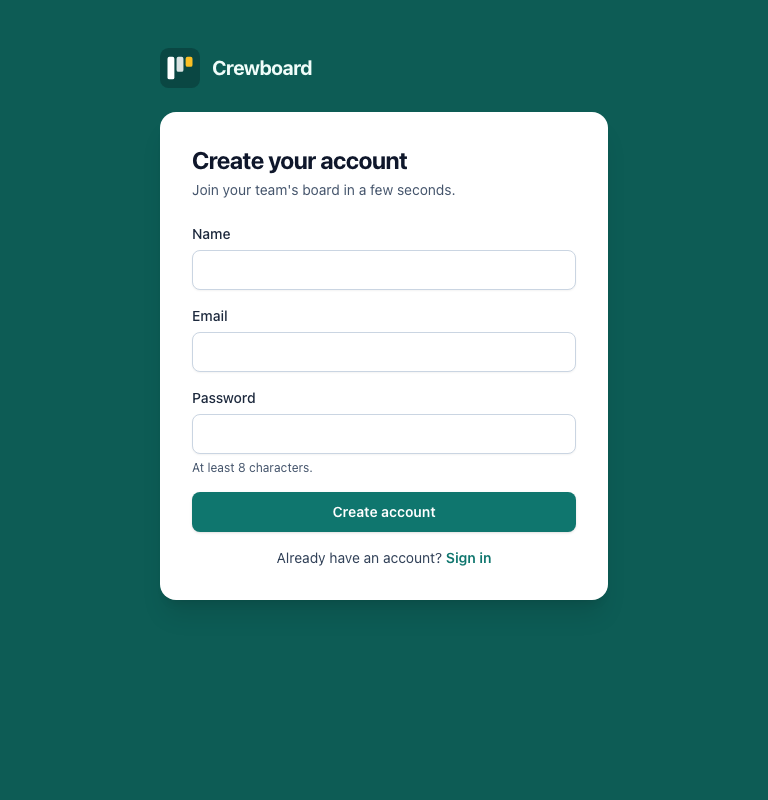
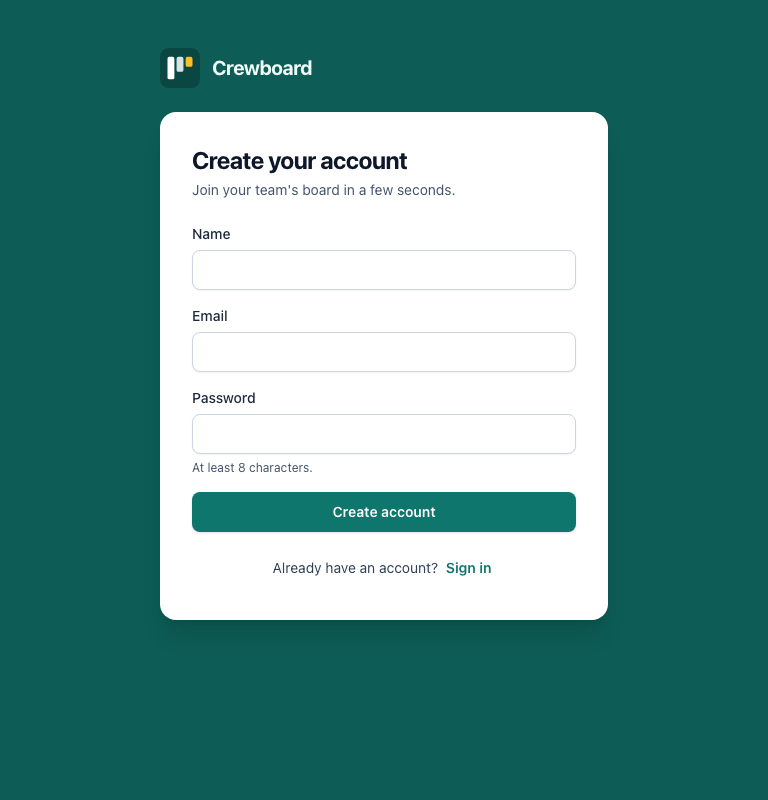
fix(a11y): 44px touch targets, scrollable layout at large text sizes, one-press keyboard column moves
Fixes the failures from the independent acceptance review (round 0) and adds
regression tests for each.

Changed region(s): [[0.1875, 0.75, 0.8125, 0.7812], [0.3438, 0.6875, 0.6562, 0.7188]]

diff --git a/src/components/board/BoardColumns.tsx b/src/components/board/BoardColumns.tsx
@@ -16,6 +16,7 @@ import type {
   UniqueIdentifier,
 } from '@dnd-kit/core';
 import { arrayMove, sortableKeyboardCoordinates } from '@dnd-kit/sortable';
+import type { KeyboardCoordinateGetter } from '@dnd-kit/core';
 import { useMemo, useState } from 'react';
 import { TASK_STATUSES } from '../../api/types';
 import type { Task, TaskStatus, User } from '../../api/types';
@@ -54,6 +55,38 @@ function columnOf(id: UniqueIdentifier, cols: Columns): TaskStatus | undefined {
   return TASK_STATUSES.find((st) => cols[st].includes(s));
 }
 
+/**
+ * Left/Right jump straight to the neighbouring column (dnd-kit's default
+ * getter can first land on a nearby card in the same column); Up/Down use
+ * the standard sortable behaviour.
+ */
+const boardKeyboardCoordinates: KeyboardCoordinateGetter = (event, args) => {
+  if (event.code !== 'ArrowLeft' && event.code !== 'ArrowRight') {
+    return sortableKeyboardCoordinates(event, args);
+  }
+  const { droppableRects, collisionRect } = args.context;
+  if (!collisionRect) return undefined;
+  const columns = TASK_STATUSES.map((s) => droppableRects.get(`column:${s}`)).filter(
+    (r): r is NonNullable<typeof r> => !!r,
+  );
+  const centerX = collisionRect.left + collisionRect.width / 2;
+  let current = columns.findIndex((r) => centerX >= r.left && centerX <= r.left + r.width);
+  if (current < 0) {
+    current = columns.reduce(
+      (best, r, i) =>
+        Math.abs(r.left + r.width / 2 - centerX) <
+        Math.abs((columns[best]?.left ?? 0) + (columns[best]?.width ?? 0) / 2 - centerX)
+          ? i
+          : best,
+      0,
+    );
+  }
+  const target = columns[current + (event.code === 'ArrowRight' ? 1 : -1)];
+  if (!target) return undefined;
+  event.preventDefault();
+  return { x: target.left + (target.width - collisionRect.width) / 2, y: target.top + 4 };
+};
+
 export function BoardColumns({
   tasks,
   visible,
@@ -79,28 +112,40 @@ export function BoardColumns({
     // A short press-and-hold starts a drag on touch, so swiping still scrolls.
     useSensor(TouchSensor, { activationConstraint: { delay: 220, tolerance: 8 } }),
     useSensor(KeyboardSensor, {
-      coordinateGetter: sortableKeyboardCoordinates,
+      coordinateGetter: boardKeyboardCoordinates,
       keyboardCodes: { start: ['Space'], cancel: ['Escape'], end: ['Space', 'Enter'] },
     }),
   );
 
   const titleOf = (id: UniqueIdentifier) => tasksById.get(String(id))?.title ?? 'card';
-  const describe = (overId: UniqueIdentifier | undefined, c: Columns) => {
+  const describe = (
+    activeId: UniqueIdentifier,
+    overId: UniqueIdentifier | undefined,
+    c: Columns,
+  ) => {
     if (overId === undefined) return 'not over a column';
     const col = columnOf(overId, c);
     if (!col) return 'not over a column';
-    const s = String(overId);
-    const idx = s.startsWith('column:') ? c[col].length : c[col].indexOf(s);
-    return `${COLUMN_TITLES[col]}, position ${Math.max(idx, 0) + 1} of ${Math.max(c[col].length, 1)}`;
+    const active = String(activeId);
+    const over = String(overId);
+    const list = c[col];
+    const inList = list.includes(active);
+    const total = inList ? list.length : list.length + 1;
+    let index: number;
+    if (over.startsWith('column:')) index = inList ? list.indexOf(active) : total - 1;
+    else if (over === active) index = list.indexOf(active);
+    else index = inList ? list.indexOf(over) : Math.max(list.indexOf(over), 0);
+    return `${COLUMN_TITLES[col]}, position ${Math.min(index + 1, total)} of ${total}`;
   };
 
   const announcements: Announcements = {
     onDragStart: ({ active }) =>
       `Picked up ${titleOf(active.id)}. Use arrow keys to move, Space to drop, Escape to cancel.`,
-    onDragOver: ({ active, over }) => `${titleOf(active.id)} is over ${describe(over?.id, cols)}.`,
+    onDragOver: ({ active, over }) =>
+      `${titleOf(active.id)} is over ${describe(active.id, over?.id, cols)}.`,
     onDragEnd: ({ active, over }) =>
       over
-        ? `Dropped ${titleOf(active.id)} in ${describe(over.id, cols)}.`
+        ? `Dropped ${titleOf(active.id)} in ${describe(active.id, over.id, cols)}.`
         : `${titleOf(active.id)} was dropped back.`,
     onDragCancel: ({ active }) =>
       `Moving ${titleOf(active.id)} was cancelled. It is back where it started.`,
@@ -178,7 +223,7 @@ export function BoardColumns({
         Press Enter to open. Press Space to pick up and move with the arrow keys.
       </p>
       <div
-        className="relative flex min-h-0 flex-1 snap-x snap-mandatory items-start gap-3 overflow-x-auto overscroll-x-contain px-3 pt-3 pb-4 sm:snap-none sm:px-5"
+        className="relative flex flex-1 snap-x lg:min-h-0 snap-mandatory items-start gap-3 overflow-x-auto overscroll-x-contain px-3 pt-3 pb-4 sm:snap-none sm:px-5"
         data-testid="column-strip"
       >
         {TASK_STATUSES.map((status) => (

diff --git a/src/components/board/AppHeader.tsx b/src/components/board/AppHeader.tsx
@@ -12,10 +12,10 @@ export function AppHeader() {
 
   return (
     <header className="shrink-0 border-b border-white/10 bg-board-deep text-white">
-      <div className="flex flex-wrap items-center gap-x-3 gap-y-2 px-3 py-2 sm:px-5">
+      <div className="flex flex-wrap items-center gap-x-2 gap-y-1 px-2 py-1.5 sm:gap-x-3 sm:px-5 sm:py-2">
         <Link
           to="/board"
-          className="focus-ring-light flex shrink-0 items-center gap-2 rounded-md"
+          className="focus-ring-light flex min-h-touch min-w-touch shrink-0 items-center justify-center gap-2 rounded-md"
           aria-label="Crewboard home"
         >
           <LogoMark className="size-8" />
@@ -25,13 +25,13 @@ export function AppHeader() {
         <div className="flex min-w-0 flex-1 basis-40 items-center">
           <BoardName />
         </div>
-        <nav aria-label="Account" className="flex flex-wrap items-center gap-1 sm:gap-2">
+        <nav aria-label="Account" className="ml-auto flex flex-wrap items-center gap-1 sm:gap-2">
           {onBoard && (
             <button
               type="button"
               aria-pressed={mine}
               onClick={() => setMine(!mine)}
-              className={`focus-ring-light inline-flex min-h-touch items-center gap-2 rounded-lg px-3 text-sm font-semibold transition-colors ${
+              className={`focus-ring-light inline-flex min-h-touch items-center gap-2 rounded-lg px-2 text-sm font-semibold transition-colors sm:px-3 ${
                 mine
                   ? 'bg-accent text-slate-900 hover:bg-amber-300'
                   : 'bg-white/10 text-white hover:bg-white/20'
@@ -46,7 +46,7 @@ export function AppHeader() {
           <NavLink
             to="/settings"
             className={({ isActive }) =>
-              `focus-ring-light inline-flex min-h-touch items-center gap-2 rounded-lg px-3 text-sm font-semibold hover:bg-white/15 ${isActive ? 'bg-white/15' : ''}`
+              `focus-ring-light inline-flex min-h-touch min-w-touch items-center justify-center gap-2 rounded-lg px-2 text-sm font-semibold hover:bg-white/15 sm:px-3 ${isActive ? 'bg-white/15' : ''}`
             }
           >
             <svg aria-hidden="true" viewBox="0 0 20 20" className="size-4" fill="currentColor">
@@ -59,7 +59,7 @@ export function AppHeader() {
             <span className="max-sm:sr-only">Settings</span>
           </NavLink>
           {user && (
-            <span className="flex items-center gap-2 pl-1">
+            <span className="hidden items-center gap-2 pl-1 sm:flex">
               <Avatar name={user.name} color={user.avatarColor} labelled={false} />
               <span className="hidden max-w-40 truncate text-sm lg:inline">{user.name}</span>
               <span className="sr-only">Signed in as {user.name}</span>
@@ -68,9 +68,17 @@ export function AppHeader() {
           <button
             type="button"
             onClick={logout}
-            className="focus-ring-light inline-flex min-h-touch items-center rounded-lg px-3 text-sm font-semibold hover:bg-white/15"
+            className="focus-ring-light inline-flex min-h-touch min-w-touch items-center justify-center gap-2 rounded-lg px-2 text-sm font-semibold hover:bg-white/15 sm:px-3"
           >
-            Log out
+            <svg
+              aria-hidden="true"
+              viewBox="0 0 20 20"
+              className="size-4 sm:hidden"
+              fill="currentColor"
+            >
+              <path d="M3 4.5A1.5 1.5 0 0 1 4.5 3h6A1.5 1.5 0 0 1 12 4.5V7h-1.5V4.5h-6v11h6V13H12v2.5a1.5 1.5 0 0 1-1.5 1.5h-6A1.5 1.5 0 0 1 3 15.5v-11Zm11.2 2.2 3.3 3.3-3.3 3.3-1.06-1.06 1.49-1.49H7.5v-1.5h7.13l-1.49-1.49 1.06-1.06Z" />
+            </svg>
+            <span className="max-sm:sr-only">Log out</span>
           </button>
         </nav>
       </div>

diff --git a/e2e/layout-regression.spec.ts b/e2e/layout-regression.spec.ts
@@ -1,0 +1,56 @@
+import { expect, test, demoLogin } from './fixtures';
+
+// Regression for review round 0: at 320 px with a 200% root font size the
+// header used most of the screen and the board could not be scrolled to.
+test('320 px at 200% text: the board is reachable by scrolling the page', async ({ page }) => {
+  await page.setViewportSize({ width: 320, height: 640 });
+  await page.addInitScript(() => {
+    document.addEventListener('DOMContentLoaded', () => {
+      const style = document.createElement('style');
+      style.textContent = 'html { font-size: 200% !important; }';
+      document.head.append(style);
+    });
+  });
+  await demoLogin(page);
+  const header = page.locator('header');
+  const headerBox = await header.boundingBox();
+  // Before the fix the header was 497 px tall and the page could not scroll;
+  // at double text size it cannot get much under 400 px, so the real check is
+  // that the page now scrolls to the board.
+  expect(headerBox!.height).toBeLessThan(440);
+  const addCard = page.getByRole('button', { name: 'Add a card to To Do' });
+  await addCard.scrollIntoViewIfNeeded();
+  await expect(addCard).toBeInViewport();
+  expect(await page.evaluate(() => document.documentElement.scrollWidth <= window.innerWidth)).toBe(
+    true,
+  );
+});
+
+test('touch targets in the header and auth links are at least 44 px on touch devices', async ({
+  browser,
+}) => {
+  const context = await browser.newContext({
+    hasTouch: true,
+    isMobile: true,
+    viewport: { width: 375, height: 740 },
+  });
+  const page = await context.newPage();
+  await page.goto('./#/login');
+  for (const name of ['Create an account']) {
+    const box = await page.getByRole('link', { name }).boundingBox();
+    expect(box!.height).toBeGreaterThanOrEqual(44);
+  }
+  await page.getByRole('button', { name: /Sign in as Ana Silva/ }).click();
+  await expect(page.getByTestId('task-card').first()).toBeVisible();
+  for (const loc of [
+    page.getByRole('link', { name: 'Crewboard home' }),
+    page.getByRole('link', { name: 'Settings' }),
+    page.getByRole('button', { name: 'Log out' }),
+    page.getByRole('button', { name: 'My tasks' }),
+  ]) {
+    const box = await loc.boundingBox();
+    expect(box!.height).toBeGreaterThanOrEqual(44);
+    expect(box!.width).toBeGreaterThanOrEqual(44);
+  }
+  await context.close();
+});

diff --git a/e2e/dnd.spec.ts b/e2e/dnd.spec.ts
@@ -88,12 +88,15 @@ test.describe('drag and drop', () => {
     await card.focus();
     await page.keyboard.press('Space');
     await expect(liveRegion(page)).toContainText('is over');
-    // The first ArrowRight can land on a neighbouring card before crossing columns.
-    for (let i = 0; i < 3; i++) {
-      if (((await liveRegion(page).textContent()) ?? '').includes('is over In Progress')) break;
-      await pressDuringDrag(page, 'ArrowRight');
-    }
+    // Regression: a single ArrowRight must reach the next column, and the
+    // announced position must never exceed the announced total.
+    await pressDuringDrag(page, 'ArrowRight');
     await expect(liveRegion(page)).toContainText('is over In Progress');
+    const text = (await liveRegion(page).textContent()) ?? '';
+    const m = /position (\d+) of (\d+)/.exec(text);
+    expect(m, text).not.toBeNull();
+    expect(Number(m![1])).toBeLessThanOrEqual(Number(m![2]));
+    expect(Number(m![2])).toBe(5);
     await page.keyboard.press('Space');
 
     await expect(column(page, 'in_progress').locator(`[data-task-id="${moving}"]`)).toBeVisible();

diff --git a/src/components/board/Column.tsx b/src/components/board/Column.tsx
@@ -26,7 +26,7 @@ export function Column({ status, tasks, usersById, filtered, onOpen, onAdd }: Co
     <section
       aria-labelledby={headingId}
       data-testid={`column-${status}`}
-      className="flex max-h-full w-[min(var(--spacing-column),calc(100vw-2.5rem))] shrink-0 snap-center flex-col rounded-xl bg-panel shadow-sm sm:snap-start"
+      className="flex w-[min(var(--spacing-column),calc(100vw-2.5rem))] shrink-0 snap-center flex-col rounded-xl lg:max-h-full bg-panel shadow-sm sm:snap-start"
     >
       <h2
         id={headingId}
@@ -49,7 +49,7 @@ export function Column({ status, tasks, usersById, filtered, onOpen, onAdd }: Co
         <ul
           ref={setNodeRef}
           aria-labelledby={headingId}
-          className={`flex min-h-20 flex-1 flex-col gap-2 overflow-y-auto overscroll-contain px-2 pb-2 transition-colors ${
+          className={`flex min-h-20 flex-1 flex-col gap-2 lg:overflow-y-auto lg:overscroll-contain px-2 pb-2 transition-colors ${
             isOver ? 'bg-teal-900/5' : ''
           }`}
         >

diff --git a/src/components/board/BoardName.tsx b/src/components/board/BoardName.tsx
@@ -81,7 +81,7 @@ export function BoardName() {
           setDraft(board.name);
           setEditing(true);
         }}
-        className="focus-ring-light group flex min-h-touch max-w-full items-center gap-2 rounded-md px-2 text-left text-lg font-bold text-white hover:bg-white/15"
+        className="focus-ring-light group flex min-h-touch max-w-full items-center gap-2 rounded-md px-2 text-left text-base font-bold text-white hover:bg-white/15 sm:text-lg"
         title="Rename board"
       >
         <span className="line-clamp-2 [overflow-wrap:anywhere]">{board.name}</span>

diff --git a/src/pages/SignupPage.tsx b/src/pages/SignupPage.tsx
@@ -108,7 +108,7 @@ export function SignupPage() {
         Already have an account?{' '}
         <Link
           to="/login"
-          className="focus-ring rounded font-semibold text-brand underline-offset-2 hover:underline"
+          className="focus-ring inline-flex min-h-touch items-center rounded px-1 font-semibold text-brand underline-offset-2 hover:underline"
         >
           Sign in
         </Link>

diff --git a/src/pages/LoginPage.tsx b/src/pages/LoginPage.tsx
@@ -84,7 +84,7 @@ export function LoginPage() {
         New here?{' '}
         <Link
           to="/signup"
-          className="focus-ring rounded font-semibold text-brand underline-offset-2 hover:underline"
+          className="focus-ring inline-flex min-h-touch items-center rounded px-1 font-semibold text-brand underline-offset-2 hover:underline"
         >
           Create an account
         </Link>

diff --git a/src/app/App.tsx b/src/app/App.tsx
@@ -29,7 +29,7 @@ function RequireAuth() {
   }
   return (
     <BoardDataProvider>
-      <div className="flex h-dvh flex-col bg-board">
+      <div className="flex min-h-dvh flex-col bg-board lg:h-dvh">
         <AppHeader />
         <Outlet />
       </div>

diff --git a/docs/REVIEW.md b/docs/REVIEW.md
@@ -1,0 +1,91 @@
+# Review log
+
+## Round 0: independent acceptance review (local production build)
+
+- **Date:** 2026-11-15
+- **Reviewer:** independent agent. Inputs were `SPEC.md` and the running app only. No source, tests or git history were read.
+- **Environment:** production build served at `http://localhost:4180/team-task-board/`. Playwright 1.x with headless Chromium on macOS. Every scenario used a fresh browser context, so localStorage started empty. Touch was checked with the Pixel 7 and iPhone 13 device profiles plus raw CDP touch events. Console errors and warnings were captured on every page (none appeared in any run).
+- **Method notes:** `tsc` and ESLint were run only for their exit codes. Evidence screenshots and scripts are in the session scratchpad `review/` folder.
+
+| # | Acceptance item (short) | Result | Evidence |
+|---|---|---|---|
+| 1 | Sign up: name, email, password; validation; duplicate email rejected | PASS | Empty submit shows "Enter your name." / "Enter your email address." / "Enter a password." `notanemail` gives "Enter a valid email address, like name@example.com." A 3-character password gives "Use at least 8 characters." `ana@crewboard.demo` and `ANA@Crewboard.demo` both give "An account with this email already exists. Sign in instead?" A valid sign-up lands on `#/board`. |
+| 2 | Log in; wrong credentials show one generic error | PASS | Wrong password for a real email and an unknown email both show the identical "Incorrect email or password." |
+| 3 | Session survives reload; log out clears it | PASS | Reload on `#/board` stays signed in. Log out goes to `#/login`, the token is removed, and a reload plus a visit to `#/board` still end on login. A malformed token (`aaa.bbb.ccc`) returns to login with "Your session has ended. Please sign in again." A genuinely expired token could not be forged without the signing secret, so I did not verify it directly. |
+| 4 | Board routes redirect to login when signed out | PASS | `#/board`, `#/settings` and an unknown route all redirect to `#/login` when signed out. |
+| 5 | Login page lists seeded demo accounts, one-click sign-in | PASS | Five accounts (Ana, Ben, Chloé, Dev, Emma) with role and email, and the shared password is stated. One click signs in; each card has an aria-label such as "Sign in as Ana Silva, Project lead". |
+| 6 | Three columns To Do / In Progress / Done, each with a task count | PASS | Headers show "To Do 5", "In Progress 4", "Done 3". Counts update after create, delete, move and filter. |
+| 7 | Board name in header and renamable | PASS | Click the name, edit inline, Enter. The header updates and survives reload. A blank name is rejected with "The board name cannot be empty." Escape cancels. The name can also be changed in Settings. |
+| 8 | Empty columns show a helpful empty state | PASS | An empty Done column shows "Nothing finished yet / Finished cards land here." A filtered empty column shows "None of your tasks here / Turn off "My tasks" to see everyone's cards." |
+| 9 | Loading and error states for the initial fetch | PASS | A "Loading board…" state is visible after reload. To force a fetch error I made `localStorage.getItem` throw partway through the load. The board area then showed "We couldn't load the board / Something went wrong. Please try again." with a "Try again" button. I did not click that button. A corrupted store returns to login with a message instead of crashing. |
+| 10 | Create a task from any column with title (required), description, assignee | PASS | "Add a card" in each column opens "New task in <column>" with that column's status preselected. An empty title shows "Give the task a title." Title, multi-paragraph description and assignee were saved, and the card appears in the right column with the right count. |
+| 11 | Open a task to view and edit title, description, assignee, status | PASS | Clicking or pressing Enter on a card opens "Edit task". All four fields were changed and saved. The card moved column, and values persisted after reload. |
+| 12 | Delete a task with a confirmation step | PASS | Delete opens "Delete this task?" naming the task, with Cancel focused. Escape closes only the confirm. "Delete task" removes the card, the count drops, and it stays gone after reload. |
+| 13 | Assignee from registered users or unassigned; cards show initials avatar | PASS | The picker lists Unassigned plus all users with "(you)" on the current user. Cards show initials avatars with an accessible name, and unassigned cards show the text "Unassigned". |
+| 14 | New accounts appear in the assignee picker | PASS | A newly registered "Test User" appeared in the picker as "Test User (you)". |
+| 15 | Drag to another column; status saved via API; survives reload | PASS | Mouse (down, stepped move, up) moved a card To Do to In Progress. It stayed after a reload 1.2 s later. A drop onto the empty area below the cards, and onto an empty column (filtered view), also persisted. |
+| 16 | Reorder within a column; order survives reload | PASS | Mouse reorder in Done persisted after reload. A keyboard reorder persisted too. |
+| 17 | Optimistic update; rollback with visible message on API failure | PASS | With `?failMoves=1`, the card sat in the target column for about 300 ms, then returned to its origin. A red toast read "Couldn't move "Create the component library". It has been put back. (Simulated server failure.)" and auto-dismissed. The original order was still there after reload. The same happened with the keyboard. See defect 3 for a stale screen-reader announcement. |
+| 18 | Drag works with mouse, touch and keyboard | PARTIAL | Mouse: PASS. Touch (CDP touch events on a Pixel 7 profile): a quick swipe does not drag, while press-and-hold (600 ms) then move reorders within a column and moves across columns, and both persist after reload. This is synthetic touch only; no real device was available. Keyboard: Space picks up, arrows move, Space drops and Escape cancels, all with live announcements, and a cross-column move persisted. However, the first arrow press in a new direction does not move the card to the next column (it only changes position in the current one), and the announcements can be wrong. See defect 3. |
+| 19 | "My tasks" toggle shows only my tasks; counts reflect the filter | PASS | As Ana, counts became To Do 1 / In Progress 0 / Done 1 ("2 of 12"). As Emma they were 0 / 1 / 1. The toggle has `aria-pressed`. |
+| 20 | Filter state visible and easy to clear | PASS | The button is highlighted. A banner reads "Showing only tasks assigned to you (2 of 12)." with a "Show all tasks" button. Clicking either the banner button or the toggle restores 5/4/3. The filter persists across reload. |
+| 21 | Edit own display name | PASS | In Settings the name saves with "Display name updated." The header and avatar initials update. A blank name shows "Display name cannot be empty." |
+| 22 | Rename the board | PASS | The Settings "Board name" field saves, and the header updates. |
+| 23 | "Reset demo data" restores seed after confirmation | PASS | A confirm dialog appears, and Cancel changes nothing. Confirming restores board name "Website relaunch", the original names, and the original tasks, and a "Demo data re…" status message appears. |
+| 24 | Five seeded users with obvious demo credentials | PASS | Five users, password `demo1234` shown on the login page. |
+| 25 | One project, ~10-12 realistic tasks across columns, several assignees, 1-2 unassigned | PASS | "Website relaunch" has 12 tasks (5/4/3) across 5 assignees. Two are unassigned ("Plan the launch announcement", "Run an accessibility review"). The tasks are realistic. |
+| 26 | Seed on first visit only; user changes never overwritten unless reset | PASS | Edits, deletes and moves survived reloads and a second tab in the same context. The seed returned only after Reset. |
+| 27 | Responsive 320 px to large desktop, portrait and landscape; columns scroll with snap; dialogs full-screen on narrow | PASS | I checked 1920x1080, 1280x800, 1024x768, 768x1024, 1024x600, 412x839, 390x844, 844x390, 667x375, 360x640, 320x568, 568x320 and 320x256 on board, settings and task dialog. `documentElement.scrollWidth` never exceeded `innerWidth`. On phones the column strip scrolls horizontally with `scroll-snap-type: x mandatory`. At 568 px width and below the dialog fills the viewport; on wider landscape it is a centred card whose overlay scrolls vertically, and Save stays reachable. |
+| 28 | Touch targets at least 44 px on touch devices | FAIL | iPhone 13 and Pixel 7 profiles, every screen audited. Fails: the header logo link is 32x32; the icon-only "Settings" link is 40x44; the inline links "Create an account" (login) and "Sign in" (signup) are about 17 px tall. All buttons, inputs, selects, cards and dialog controls are at least 44 px. |
+| 29 | Scales with font size: rem-based; usable at 200% default font and 400% zoom | PARTIAL | With `html{font-size:200%}` every text node doubled (11, 14 and 16 px base became 22, 28 and 32 px) and nothing overflowed horizontally at 1280, 768, 412, 320x568 or 320x256. At 320x256 with the normal font (400% zoom approximation) the header is about 115 px and the board is usable. At 412 wide and above, and at 768, 200% is usable. Problem: at 320x568 with 200% font the non-sticky header is 497 px tall, the page does not scroll, and only about 70 px is left for the board, which makes the board practically unusable (defect 2). I could not inspect CSS units directly, so the "never fixed px" claim was verified only through behaviour. |
+| 30 | Long titles, unbroken words, long names, multi-paragraph descriptions handled | PASS | Tested a 140-character title, a 204-character unbroken word as title, an 8-paragraph description with an unbroken word, a 70-character display name and a long board name. Card titles wrap or clamp with an ellipsis, the header name and user name truncate with an ellipsis, and the dialog scrolls with a vertically resizable textarea. There was no horizontal overflow or broken layout at 320 px to 1920 px. |
+| 31 | Respects `prefers-reduced-motion` | PASS | With `reducedMotion: 'no-preference'`, the dialog runs `fade-in` 120 ms and `dialog-in` 160 ms, the drag overlay is tilted, and the drop animates 250 ms. With `reduce`, no animations run, durations are 1e-5 s, and the drag tilt is gone. |
+| 32 | Keyboard reachable, visible focus, labelled controls, dialogs trap focus and close on Escape | PASS | Tab order on login, board and dialogs is logical. Every focused control shows a 3 px solid outline (teal, amber, white or red depending on the surface). The Tab and Shift+Tab cycle stays inside the dialog (`aria-modal`, labelled). Escape closes task, create and confirm dialogs (confirm closes alone) and focus returns to the opener. A scan found no unlabelled inputs, selects, buttons or links on board or settings. Minor: initial dialog focus goes to the close button rather than the first field. |
+| 33 | No console errors or warnings in normal use | PASS | Across all scripts (auth, CRUD, drag with mouse/touch/keyboard, settings, reset, narrow viewports, reduced motion) no console errors, warnings or page errors were captured. The simulated move failure also logged none. |
+| 34 | Production build has no TypeScript or lint errors | PASS | `npm run typecheck` exits 0. `npm run lint` (`eslint . --max-warnings=0`) exits 0. I did not rebuild; the check was against the working tree. `prettier --check` is not part of the criterion but reports 4 files (see observations). |
+
+**Totals:** 34 rows: 31 PASS, 1 FAIL, 2 PARTIAL.
+
+### Section 4 design checks (objective)
+
+- **Name and identity:** "Crewboard", with its own three-bar logo (two white bars plus an amber bar, no square). There is no Trello name, wordmark or blue anywhere. The board colour is a dark teal.
+- **Layout:** full-height coloured board, three fixed-width neutral columns with header and count, white compact cards, an "Add a card" action at the foot of each column, and a centred dialog for task details. Light theme only.
+- **Typeface:** one sans family, consistent spacing, restrained shadows.
+- **Contrast:** I computed WCAG contrast ratios for every text element on login, signup (with errors), board, task dialog and settings. All meet AA. The lowest measured values were 4.75:1 for "Back to board" and "Unassigned" (12 px), 5.18:1 for avatar initials and 5.47:1 for the primary buttons.
+
+## Failures and defects
+
+1. **Touch targets below 44 px (FAIL for item 28).** Severity: minor.
+   Repro: use an iPhone 13 or Pixel 7 profile, open `#/board` and measure the header logo link (32x32) and the icon-only Settings link (40 px wide). Open `#/login` and `#/signup` and measure the inline "Create an account" and "Sign in" links (about 17 px tall).
+
+2. **Board almost unusable at 320 px wide with a 200% default font (PARTIAL for item 29).** Severity: major.
+   Repro: viewport 320x568, inject `html{font-size:200%}`, sign in. The header wraps into a non-sticky block of 497 px, the document does not scroll (`scrollHeight == innerHeight`), and the board gets about 70 px of height, so cards and "Add a card" cannot be reached comfortably. At 412 and 768 px wide it is fine. Suggested direction: collapse header controls (menu or smaller header at narrow widths and large text) or let the page scroll.
+
+3. **Keyboard drag glitches (PARTIAL for item 18).** Severity: minor.
+   Repro A: focus a card, Space, then ArrowRight once. The announcement is "over To Do, position 1 of 5" (still in the source column), so cross-column moves need two presses.
+   Repro B: sign in as Emma, turn on "My tasks", pick up "Write the new About page copy", press ArrowLeft. The announcements read "position 2 of 1", and the drop reads "Dropped ... in To Do, position 2 of 1". The result is correct, but the announced position is impossible.
+   Repro C: with `?failMoves=1`, after a failed move the live region still says "Dropped ... in In Progress, position 1 of 5." The rollback toast does carry the correction.
+
+## Other observations (not acceptance failures)
+
+- `document.title` is always "Crewboard" on every route.
+- The board page has two `h1` elements (logo or board name plus another); consider one per page.
+- Opening a task puts focus on the Close button rather than the Title field.
+- A blank board-name rename closes the inline editor and shows the error only as a live-region alert, so a sighted user may miss it. The alert text also lingers after Escape.
+- On a phone, "Settings" is icon-only (aria-label "Settings") and the avatar plus "Log out" sit on a second header row. It works but looks cramped at 320 px, and the long board name truncates with no tooltip.
+- Landscape phone (844x390): the dialog is a centred card taller than the viewport, so the overlay scrolls and the Save and Delete row is below the fold until you scroll. A full-height sheet would be easier.
+- Delete shows one toast per deletion and the toasts stack without a cap.
+- `prettier --check` flags 4 files, including `docs/metrics/usage.json` and `scripts/usage-report.mjs`. This is not covered by the spec criterion.
+- Not verified: real touch hardware (only synthetic CDP touch), genuine token expiry, and the "Try again" button on the load-error screen.
+- The "Try demo account" list and the password hint make the demo trivially usable, as intended.
+
+### Round 0: fixes (main session)
+
+| Finding | Fix | Regression test |
+|---|---|---|
+| FAIL: touch targets under 44 px (logo link 32 px, icon-only Settings 40 px wide, inline "Create an account" / "Sign in" links ~17 px tall). | Logo link, Settings and Log out get `min-h/min-w` of the touch size (44 px on coarse pointers); auth links are now 44 px tall inline-flex targets. | `e2e/layout-regression.spec.ts`: touch-target sizes on a touch device profile. |
+| PARTIAL (major): at 320 px with 200% text the header took 497 px and the page could not scroll, leaving ~70 px of board. | Below the `lg` breakpoint the app shell is no longer fixed to the viewport height: the page scrolls vertically and columns grow with their cards (the fixed-height board with per-column scrolling remains on large screens). The header is denser on phones (icon-only Settings and Log out with accessible names, avatar hidden, smaller board title). | `e2e/layout-regression.spec.ts`: board reachable by scrolling at 320 px / 200%, no horizontal overflow. |
+| PARTIAL (minor): keyboard ArrowRight sometimes needed two presses to change column; announcements could say "position 2 of 1". | Custom keyboard coordinate getter: Left/Right jump straight to the neighbouring column; Up/Down keep the standard sortable behaviour. Announcement positions are computed from the live drag order and clamped to the total. | `e2e/dnd.spec.ts`: one ArrowRight reaches In Progress and the announced position ≤ total (5 repeats, no flakes). |
+| Not verified by the reviewer: real touch hardware, a genuinely expired token, the load-error "Try again" button. | Expiry is covered by unit tests (`src/mock/auth.test.ts`, injected clock) and the 401 → login path by the client. Touch hardware is listed in `docs/UI-REVIEW-CHECKLIST.md` for the owner. | — |
+
+The screen-reader message after a rolled-back move still says "Dropped …" first; the error toast (`role="alert"`) then announces that the move failed and the card is back. Left as is.
